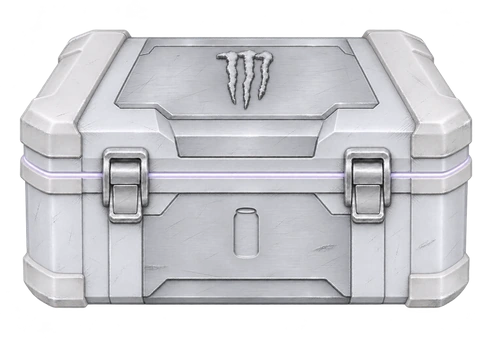
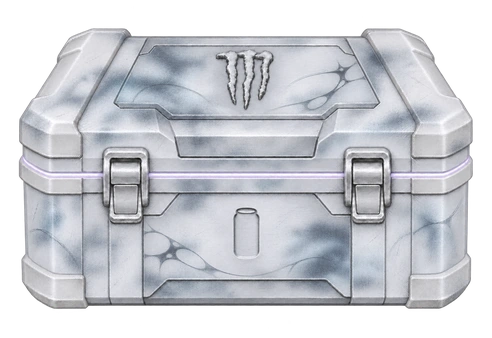
Add soft angelic grunge and flowing details to donation chest

diff --git a/holodos/src/site/index.html b/holodos/src/site/index.html
@@ -100,7 +100,7 @@
 <section class="view" id="view-cases" data-view="/cases">
  <div class="cases-topline"><div class="page-header cases-heading"><p class="eyebrow">КОЛЛЕКЦИЯ / WAR1OUSS</p><h1>Холод с характером<span class="period">.</span></h1><p>Твоя коллекция кейсов и наград.</p></div>
  <aside class="cases-balances" aria-label="Твои балансы"><div class="case-balance case-balance--twitch"><span class="case-balance-label"><svg viewBox="0 0 24 24" aria-hidden="true"><path fill="currentColor" d="M4 2 2 6v15h5v3l4-3h4l7-7V2H4zm16 11-4 4h-5l-3 3v-3H4V4h16v9zM14 7h2v6h-2V7zm-5 0h2v6H9V7z"/></svg>Баллы канала</span><strong id="case-channel-balance">—</strong><span class="case-balance-hint">Баланс Twitch пока не подключён</span></div><div class="case-balance"><span class="case-balance-label"><span class="balance-w" aria-hidden="true">W</span>Баллы сайта</span><strong id="case-site-balance" aria-live="polite">—</strong><span class="case-balance-hint" id="case-site-balance-hint">Войди через Twitch</span></div></aside></div><div class="cases-status"><span class="cases-status-dot"></span><span>Коллекция готовится к запуску. Открытия пока недоступны.</span></div>
- <div class="cases-collection"><article class="collection-case collection-case--donation"><div class="case-artwork"><img src="/assets/case-donation.webp?v=53" alt="Белый кейс с гранжем, выемкой в форме банки и эмблемой Monster" width="492" height="338" loading="lazy" decoding="async"><div class="case-hover-rewards" aria-hidden="true"><span class="case-hover-label">МОЖЕТ ВЫПАСТЬ</span><div><span>3000 W</span><span>5000 W</span><span>10000 W</span><span>15000 W</span><span class="reward-glow reward-glow--vp">240 VP</span><span class="reward-glow reward-glow--vp">475 VP</span><span class="reward-glow reward-glow--vp">1000 VP</span><span class="reward-glow reward-glow--popmart">Фигурка POP MART</span></div></div></div><div class="case-content"><p class="case-number case-category">За донат</p><div class="case-title-line"><h2>Донатный</h2></div><p class="case-description">Гарантированные 2 000 W дополнительно к случайной награде: W-монетам, коду VP или фигурке POP MART.</p><div class="case-cost">400 ₽</div><details class="case-rewards"><summary>Шансы <span aria-hidden="true">+</span></summary><div class="case-reward-list"><div><span>3000 W</span><strong>14,98%</strong></div><div><span>5000 W</span><strong>35%</strong></div><div><span>10000 W</span><strong>15%</strong></div><div><span>15000 W</span><strong>5%</strong></div><div><span class="reward-glow reward-glow--vp">240 VP</span><strong>25%</strong></div><div><span class="reward-glow reward-glow--vp">475 VP</span><strong>4%</strong></div><div><span class="reward-glow reward-glow--vp">1000 VP</span><strong>1%</strong></div><div><span class="reward-glow reward-glow--popmart">Фигурка POP MART</span><strong>0,02%</strong></div></div><p class="case-odds-note">Шанс каждого открытия независим. Редкая награда не гарантирована.</p></details><button class="case-open-button" type="button" disabled>Скоро открытие <span aria-hidden="true">↗</span></button></div></article><article class="collection-case collection-case--twitch"><div class="case-artwork"><img src="/assets/case-twitch.webp?v=43" alt="Баллы Twitch: металлический кейс War1ouss с инеем" width="492" height="338" loading="lazy" decoding="async"><div class="case-hover-rewards" aria-hidden="true"><span class="case-hover-label">МОЖЕТ ВЫПАСТЬ</span><div><span>500 W</span><span>1000 W</span><span>2000 W</span><span>5000 W</span><span class="reward-glow reward-glow--vp">240 VP</span></div></div></div><div class="case-content"><p class="case-number case-category">За баллы канала</p><div class="case-title-line"><h2>Баллы Twitch</h2></div><p class="case-description">Предварительный состав наград за 10 000 баллов канала. Открытия пока недоступны.</p><div class="case-cost">10 000 баллов</div><details class="case-rewards"><summary>Шансы <span aria-hidden="true">+</span></summary><div class="case-reward-list"><div><span>500 W</span><strong>35%</strong></div><div><span>1000 W</span><strong>30%</strong></div><div><span>2000 W</span><strong>20%</strong></div><div><span>5000 W</span><strong>14%</strong></div><div><span class="reward-glow reward-glow--vp">240 VP</span><strong>1%</strong></div></div><p class="case-odds-note">Предварительный просмотр. Открытия за баллы канала отключены.</p></details><button class="case-open-button" type="button" disabled>Скоро открытие <span aria-hidden="true">↗</span></button></div></article><article class="collection-case collection-case--chat"><div class="case-artwork"><img src="/assets/case-chat.webp?v=43" alt="За сообщения: металлический кейс War1ouss с инеем" width="492" height="338" loading="lazy" decoding="async"><div class="case-hover-rewards" aria-hidden="true"><span class="case-hover-label">МОЖЕТ ВЫПАСТЬ</span><div><span>100 W</span><span>250 W</span><span>1000 W</span><span>3000 W</span><span>8000 W</span><span class="reward-glow reward-glow--vp">240 VP</span><span class="reward-glow reward-glow--vip">VIP на месяц</span></div></div></div><div class="case-content"><p class="case-number case-category">За активность</p><div class="case-title-line"><h2>За сообщения</h2></div><p class="case-description">Общайся в чате. Прогресс копится между стримами. Если VIP уже активен, вместо VIP-награды — 3 000 W.</p><div class="case-cost">1 500 сообщений</div><details class="case-rewards"><summary>Шансы <span aria-hidden="true">+</span></summary><div class="case-reward-list"><div><span>100 W</span><strong>33,5%</strong></div><div><span>250 W</span><strong>35%</strong></div><div><span>1000 W</span><strong>20%</strong></div><div><span>3000 W</span><strong>7%</strong></div><div><span>8000 W</span><strong>2,5%</strong></div><div><span class="reward-glow reward-glow--vp">240 VP</span><strong>0,5%</strong></div><div><span class="reward-glow reward-glow--vip">VIP на месяц</span><strong>1,5%</strong></div></div><p class="case-odds-note">Шанс каждого открытия независим. Редкая награда не гарантирована.</p></details><button class="case-open-button" type="button" disabled>Скоро открытие <span aria-hidden="true">↗</span></button></div></article><article class="collection-case collection-case--vip"><div class="case-artwork"><img src="/assets/case-vip.webp?v=43" alt="VIP: металлический кейс War1ouss с инеем" width="492" height="338" loading="lazy" decoding="async"><div class="case-hover-rewards" aria-hidden="true"><span class="case-hover-label">МОЖЕТ ВЫПАСТЬ</span><div><span>500 W</span><span>2000 W</span><span>5000 W</span><span>10000 W</span><span class="reward-glow reward-glow--vp">240 VP</span></div></div></div><div class="case-content"><p class="case-number case-category">Раз в неделю</p><div class="case-title-line"><h2>VIP</h2></div><p class="case-description">Особый кейс для обладателей VIP-значка Twitch. Без пустого результата.</p><div class="case-cost">Для VIP-еров</div><details class="case-rewards"><summary>Шансы <span aria-hidden="true">+</span></summary><div class="case-reward-list"><div><span>500 W</span><strong>35%</strong></div><div><span>2000 W</span><strong>30%</strong></div><div><span>5000 W</span><strong>20%</strong></div><div><span>10000 W</span><strong>12%</strong></div><div><span class="reward-glow reward-glow--vp">240 VP</span><strong>3%</strong></div></div><p class="case-odds-note">Шанс каждого открытия независим. Редкая награда не гарантирована.</p></details><button class="case-open-button" type="button" disabled>Скоро открытие <span aria-hidden="true">↗</span></button></div></article><article class="collection-case collection-case--coins"><div class="case-artwork"><img src="/assets/case-coins.webp?v=43" alt="За W-монеты: металлический кейс War1ouss с инеем" width="492" height="338" loading="lazy" decoding="async"><div class="case-hover-rewards" aria-hidden="true"><span class="case-hover-label">НАГРАДЫ</span><p>Содержимое скоро появится</p></div></div><div class="case-content"><p class="case-number case-category">Скоро</p><div class="case-title-line"><h2>За W-монеты</h2></div><p class="case-description">Новый способ использовать заработанные W. Стоимость и награды ещё настраиваются.</p><div class="case-cost">За W-монеты</div><div class="case-pending">Содержимое скоро появится</div><button class="case-open-button" type="button" disabled>Скоро открытие <span aria-hidden="true">↗</span></button></div></article><article class="collection-case collection-case--subscriber"><div class="case-artwork"><img src="/assets/case-subscriber.webp?v=44" alt="Косметический кейс за подписку" width="492" height="338" loading="lazy"><div class="case-hover-rewards" aria-hidden="true"><span class="case-hover-label">КОСМЕТИКА</span><div><span class="cosmetic-frame">Эффекты рамки</span><span class="cosmetic-title">Титулы</span><span class="cosmetic-name">Оформление ника</span><span class="cosmetic-chess">Скин шахмат · в разработке</span><span class="cosmetic-can">Банка для дуэлей</span><span class="cosmetic-theme">Цвет сайта</span></div></div></div><div class="case-content"><p class="case-category">За подписку Twitch</p><h2>За подписку</h2><p class="case-description">Каждый месяц подписки: уровень 1 даёт 1 кейс, уровень 2 даёт 2, уровень 3 даёт 3.</p><div class="case-cost">1 / 2 / 3 кейса в месяц</div><details class="case-rewards"><summary>Шансы <span aria-hidden="true">+</span></summary><div class="case-reward-list"><div><span class="cosmetic-frame">Эффекты рамки</span><strong>40%</strong></div><div><span class="cosmetic-title">Титулы</span><strong>25%</strong></div><div><span class="cosmetic-name">Оформление ника</span><strong>24%</strong></div><div><span class="cosmetic-can">Банка для дуэлей</span><strong>10%</strong></div><div><span class="cosmetic-theme">Цвет сайта</span><strong>1%</strong></div></div><p class="case-odds-note">Пять банок равновероятны внутри награды, по 2% каждая. Скин шахмат в разработке и пока не выпадает. Шанс каждого открытия независим.</p></details><button class="case-open-button" disabled>Проверка подписок подключается</button></div></article></div><section class="panel monster-frame-gallery"><div class="panel-header"><h2>Рамки Monster</h2><span class="muted">Примеры косметики</span></div><p class="muted">Банки, язычки и брызги вокруг твоего аватара. Три рисованных варианта с мягким переливом.</p><div class="monster-frame-grid"><article class="frame-preview-card"><div class="frame-preview"><span class="frame-preview-center">W</span><picture><source media="(prefers-reduced-motion: reduce)" srcset="/assets/frame-ultra.png?v=53"><img src="/assets/frame-ultra.gif?v=53" alt="Рамка Ultra Frost с банками Monster и брызгами" width="160" height="160" loading="lazy" draggable="false"></picture></div><h3>Ultra Frost</h3></article><article class="frame-preview-card"><div class="frame-preview"><span class="frame-preview-center">W</span><picture><source media="(prefers-reduced-motion: reduce)" srcset="/assets/frame-original.png?v=53"><img src="/assets/frame-original.gif?v=53" alt="Рамка Original Splash с банками Monster и брызгами" width="160" height="160" loading="lazy" draggable="false"></picture></div><h3>Original Splash</h3></article><article class="frame-preview-card"><div class="frame-preview"><span class="frame-preview-center">W</span><picture><source media="(prefers-reduced-motion: reduce)" srcset="/assets/frame-mango.png?v=53"><img src="/assets/frame-mango.gif?v=53" alt="Рамка Mango Loco с банками Monster и брызгами" width="160" height="160" loading="lazy" draggable="false"></picture></div><h3>Mango Loco</h3></article></div></section><div class="cases-footnote"><span>W / WAR1OUSS</span><p>Условия и награды показаны для предварительного просмотра. Подключение выдачи кейсов — следующий этап.</p></div></section>
+ <div class="cases-collection"><article class="collection-case collection-case--donation"><div class="case-artwork"><img src="/assets/case-donation.webp?v=54" alt="Белый кейс с гранжем, выемкой в форме банки и эмблемой Monster" width="492" height="338" loading="lazy" decoding="async"><div class="case-hover-rewards" aria-hidden="true"><span class="case-hover-label">МОЖЕТ ВЫПАСТЬ</span><div><span>3000 W</span><span>5000 W</span><span>10000 W</span><span>15000 W</span><span class="reward-glow reward-glow--vp">240 VP</span><span class="reward-glow reward-glow--vp">475 VP</span><span class="reward-glow reward-glow--vp">1000 VP</span><span class="reward-glow reward-glow--popmart">Фигурка POP MART</span></div></div></div><div class="case-content"><p class="case-number case-category">За донат</p><div class="case-title-line"><h2>Донатный</h2></div><p class="case-description">Гарантированные 2 000 W дополнительно к случайной награде: W-монетам, коду VP или фигурке POP MART.</p><div class="case-cost">400 ₽</div><details class="case-rewards"><summary>Шансы <span aria-hidden="true">+</span></summary><div class="case-reward-list"><div><span>3000 W</span><strong>14,98%</strong></div><div><span>5000 W</span><strong>35%</strong></div><div><span>10000 W</span><strong>15%</strong></div><div><span>15000 W</span><strong>5%</strong></div><div><span class="reward-glow reward-glow--vp">240 VP</span><strong>25%</strong></div><div><span class="reward-glow reward-glow--vp">475 VP</span><strong>4%</strong></div><div><span class="reward-glow reward-glow--vp">1000 VP</span><strong>1%</strong></div><div><span class="reward-glow reward-glow--popmart">Фигурка POP MART</span><strong>0,02%</strong></div></div><p class="case-odds-note">Шанс каждого открытия независим. Редкая награда не гарантирована.</p></details><button class="case-open-button" type="button" disabled>Скоро открытие <span aria-hidden="true">↗</span></button></div></article><article class="collection-case collection-case--twitch"><div class="case-artwork"><img src="/assets/case-twitch.webp?v=43" alt="Баллы Twitch: металлический кейс War1ouss с инеем" width="492" height="338" loading="lazy" decoding="async"><div class="case-hover-rewards" aria-hidden="true"><span class="case-hover-label">МОЖЕТ ВЫПАСТЬ</span><div><span>500 W</span><span>1000 W</span><span>2000 W</span><span>5000 W</span><span class="reward-glow reward-glow--vp">240 VP</span></div></div></div><div class="case-content"><p class="case-number case-category">За баллы канала</p><div class="case-title-line"><h2>Баллы Twitch</h2></div><p class="case-description">Предварительный состав наград за 10 000 баллов канала. Открытия пока недоступны.</p><div class="case-cost">10 000 баллов</div><details class="case-rewards"><summary>Шансы <span aria-hidden="true">+</span></summary><div class="case-reward-list"><div><span>500 W</span><strong>35%</strong></div><div><span>1000 W</span><strong>30%</strong></div><div><span>2000 W</span><strong>20%</strong></div><div><span>5000 W</span><strong>14%</strong></div><div><span class="reward-glow reward-glow--vp">240 VP</span><strong>1%</strong></div></div><p class="case-odds-note">Предварительный просмотр. Открытия за баллы канала отключены.</p></details><button class="case-open-button" type="button" disabled>Скоро открытие <span aria-hidden="true">↗</span></button></div></article><article class="collection-case collection-case--chat"><div class="case-artwork"><img src="/assets/case-chat.webp?v=43" alt="За сообщения: металлический кейс War1ouss с инеем" width="492" height="338" loading="lazy" decoding="async"><div class="case-hover-rewards" aria-hidden="true"><span class="case-hover-label">МОЖЕТ ВЫПАСТЬ</span><div><span>100 W</span><span>250 W</span><span>1000 W</span><span>3000 W</span><span>8000 W</span><span class="reward-glow reward-glow--vp">240 VP</span><span class="reward-glow reward-glow--vip">VIP на месяц</span></div></div></div><div class="case-content"><p class="case-number case-category">За активность</p><div class="case-title-line"><h2>За сообщения</h2></div><p class="case-description">Общайся в чате. Прогресс копится между стримами. Если VIP уже активен, вместо VIP-награды — 3 000 W.</p><div class="case-cost">1 500 сообщений</div><details class="case-rewards"><summary>Шансы <span aria-hidden="true">+</span></summary><div class="case-reward-list"><div><span>100 W</span><strong>33,5%</strong></div><div><span>250 W</span><strong>35%</strong></div><div><span>1000 W</span><strong>20%</strong></div><div><span>3000 W</span><strong>7%</strong></div><div><span>8000 W</span><strong>2,5%</strong></div><div><span class="reward-glow reward-glow--vp">240 VP</span><strong>0,5%</strong></div><div><span class="reward-glow reward-glow--vip">VIP на месяц</span><strong>1,5%</strong></div></div><p class="case-odds-note">Шанс каждого открытия независим. Редкая награда не гарантирована.</p></details><button class="case-open-button" type="button" disabled>Скоро открытие <span aria-hidden="true">↗</span></button></div></article><article class="collection-case collection-case--vip"><div class="case-artwork"><img src="/assets/case-vip.webp?v=43" alt="VIP: металлический кейс War1ouss с инеем" width="492" height="338" loading="lazy" decoding="async"><div class="case-hover-rewards" aria-hidden="true"><span class="case-hover-label">МОЖЕТ ВЫПАСТЬ</span><div><span>500 W</span><span>2000 W</span><span>5000 W</span><span>10000 W</span><span class="reward-glow reward-glow--vp">240 VP</span></div></div></div><div class="case-content"><p class="case-number case-category">Раз в неделю</p><div class="case-title-line"><h2>VIP</h2></div><p class="case-description">Особый кейс для обладателей VIP-значка Twitch. Без пустого результата.</p><div class="case-cost">Для VIP-еров</div><details class="case-rewards"><summary>Шансы <span aria-hidden="true">+</span></summary><div class="case-reward-list"><div><span>500 W</span><strong>35%</strong></div><div><span>2000 W</span><strong>30%</strong></div><div><span>5000 W</span><strong>20%</strong></div><div><span>10000 W</span><strong>12%</strong></div><div><span class="reward-glow reward-glow--vp">240 VP</span><strong>3%</strong></div></div><p class="case-odds-note">Шанс каждого открытия независим. Редкая награда не гарантирована.</p></details><button class="case-open-button" type="button" disabled>Скоро открытие <span aria-hidden="true">↗</span></button></div></article><article class="collection-case collection-case--coins"><div class="case-artwork"><img src="/assets/case-coins.webp?v=43" alt="За W-монеты: металлический кейс War1ouss с инеем" width="492" height="338" loading="lazy" decoding="async"><div class="case-hover-rewards" aria-hidden="true"><span class="case-hover-label">НАГРАДЫ</span><p>Содержимое скоро появится</p></div></div><div class="case-content"><p class="case-number case-category">Скоро</p><div class="case-title-line"><h2>За W-монеты</h2></div><p class="case-description">Новый способ использовать заработанные W. Стоимость и награды ещё настраиваются.</p><div class="case-cost">За W-монеты</div><div class="case-pending">Содержимое скоро появится</div><button class="case-open-button" type="button" disabled>Скоро открытие <span aria-hidden="true">↗</span></button></div></article><article class="collection-case collection-case--subscriber"><div class="case-artwork"><img src="/assets/case-subscriber.webp?v=44" alt="Косметический кейс за подписку" width="492" height="338" loading="lazy"><div class="case-hover-rewards" aria-hidden="true"><span class="case-hover-label">КОСМЕТИКА</span><div><span class="cosmetic-frame">Эффекты рамки</span><span class="cosmetic-title">Титулы</span><span class="cosmetic-name">Оформление ника</span><span class="cosmetic-chess">Скин шахмат · в разработке</span><span class="cosmetic-can">Банка для дуэлей</span><span class="cosmetic-theme">Цвет сайта</span></div></div></div><div class="case-content"><p class="case-category">За подписку Twitch</p><h2>За подписку</h2><p class="case-description">Каждый месяц подписки: уровень 1 даёт 1 кейс, уровень 2 даёт 2, уровень 3 даёт 3.</p><div class="case-cost">1 / 2 / 3 кейса в месяц</div><details class="case-rewards"><summary>Шансы <span aria-hidden="true">+</span></summary><div class="case-reward-list"><div><span class="cosmetic-frame">Эффекты рамки</span><strong>40%</strong></div><div><span class="cosmetic-title">Титулы</span><strong>25%</strong></div><div><span class="cosmetic-name">Оформление ника</span><strong>24%</strong></div><div><span class="cosmetic-can">Банка для дуэлей</span><strong>10%</strong></div><div><span class="cosmetic-theme">Цвет сайта</span><strong>1%</strong></div></div><p class="case-odds-note">Пять банок равновероятны внутри награды, по 2% каждая. Скин шахмат в разработке и пока не выпадает. Шанс каждого открытия независим.</p></details><button class="case-open-button" disabled>Проверка подписок подключается</button></div></article></div><section class="panel monster-frame-gallery"><div class="panel-header"><h2>Рамки Monster</h2><span class="muted">Примеры косметики</span></div><p class="muted">Банки, язычки и брызги вокруг твоего аватара. Три рисованных варианта с мягким переливом.</p><div class="monster-frame-grid"><article class="frame-preview-card"><div class="frame-preview"><span class="frame-preview-center">W</span><picture><source media="(prefers-reduced-motion: reduce)" srcset="/assets/frame-ultra.png?v=53"><img src="/assets/frame-ultra.gif?v=53" alt="Рамка Ultra Frost с банками Monster и брызгами" width="160" height="160" loading="lazy" draggable="false"></picture></div><h3>Ultra Frost</h3></article><article class="frame-preview-card"><div class="frame-preview"><span class="frame-preview-center">W</span><picture><source media="(prefers-reduced-motion: reduce)" srcset="/assets/frame-original.png?v=53"><img src="/assets/frame-original.gif?v=53" alt="Рамка Original Splash с банками Monster и брызгами" width="160" height="160" loading="lazy" draggable="false"></picture></div><h3>Original Splash</h3></article><article class="frame-preview-card"><div class="frame-preview"><span class="frame-preview-center">W</span><picture><source media="(prefers-reduced-motion: reduce)" srcset="/assets/frame-mango.png?v=53"><img src="/assets/frame-mango.gif?v=53" alt="Рамка Mango Loco с банками Monster и брызгами" width="160" height="160" loading="lazy" draggable="false"></picture></div><h3>Mango Loco</h3></article></div></section><div class="cases-footnote"><span>W / WAR1OUSS</span><p>Условия и награды показаны для предварительного просмотра. Подключение выдачи кейсов — следующий этап.</p></div></section>
 
 <section class="view" id="view-duels" data-view="/duels">
   <div class="page-header"><p class="eyebrow">PVP / ДУЭЛИ</p><h1>Брось вызов<span class="period">.</span></h1><p>Дуэли на W-монеты с теми же правилами, что и в чате. Перерыв после завершения — 2 минуты 30 секунд.</p></div>
